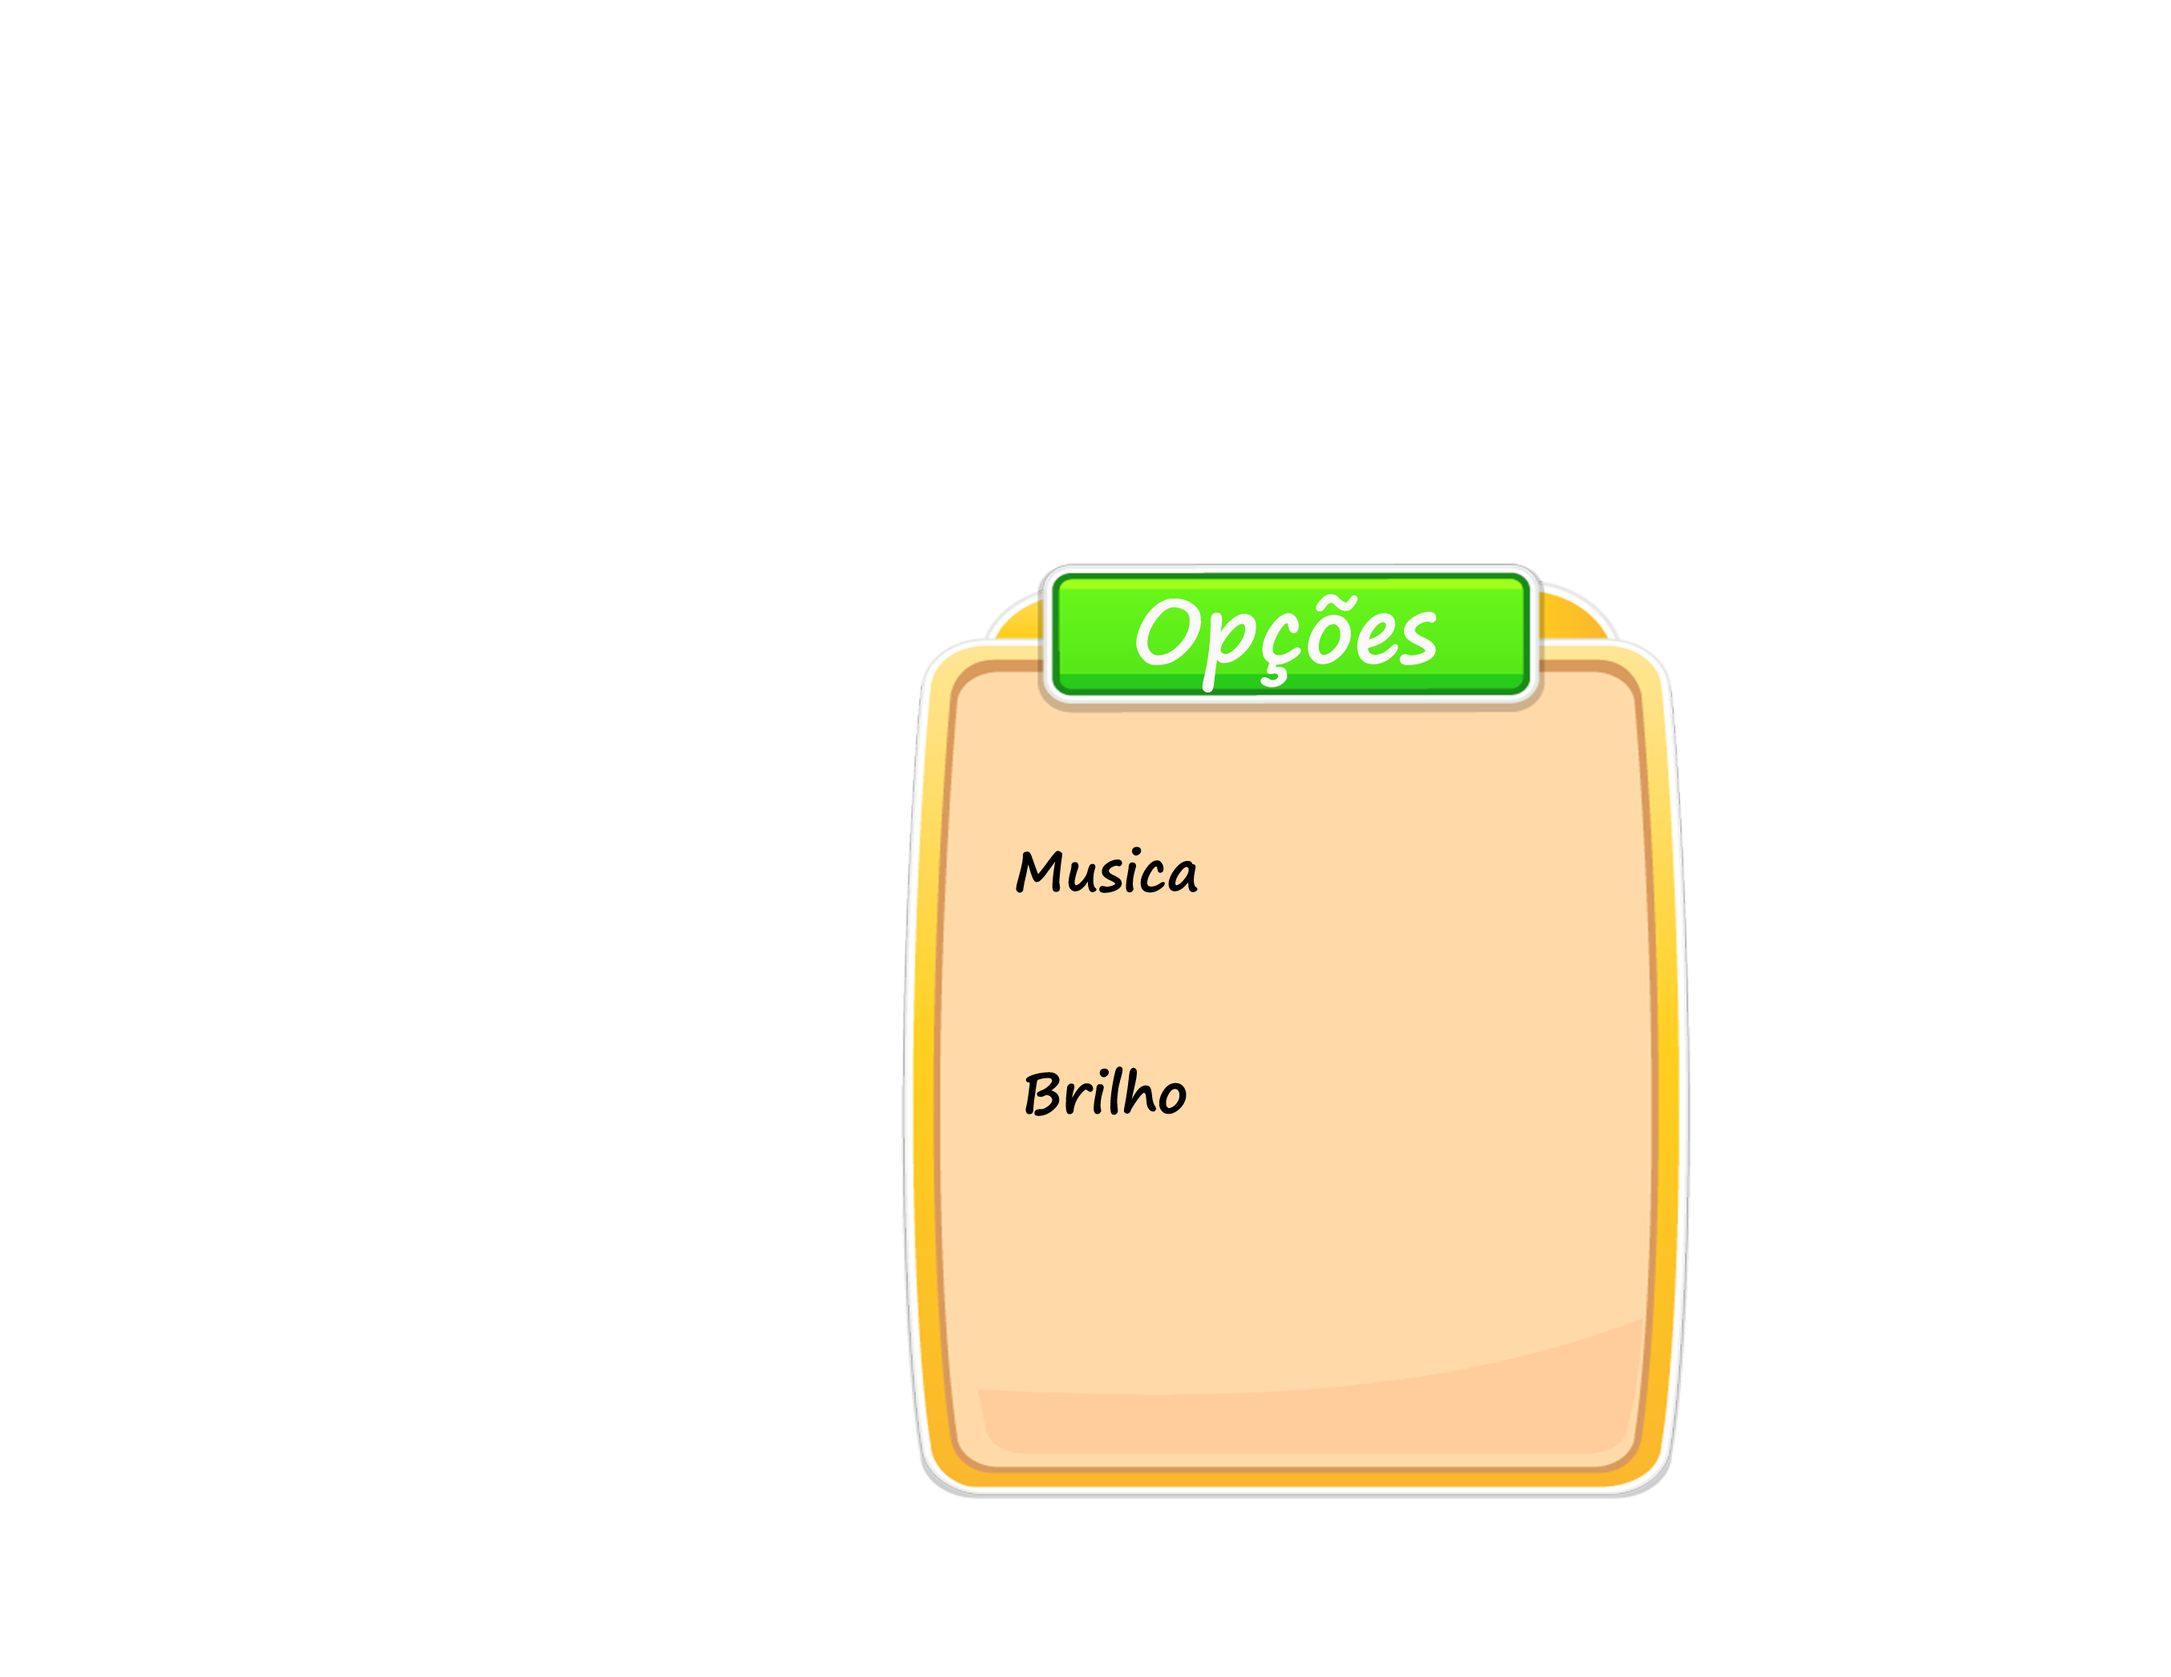
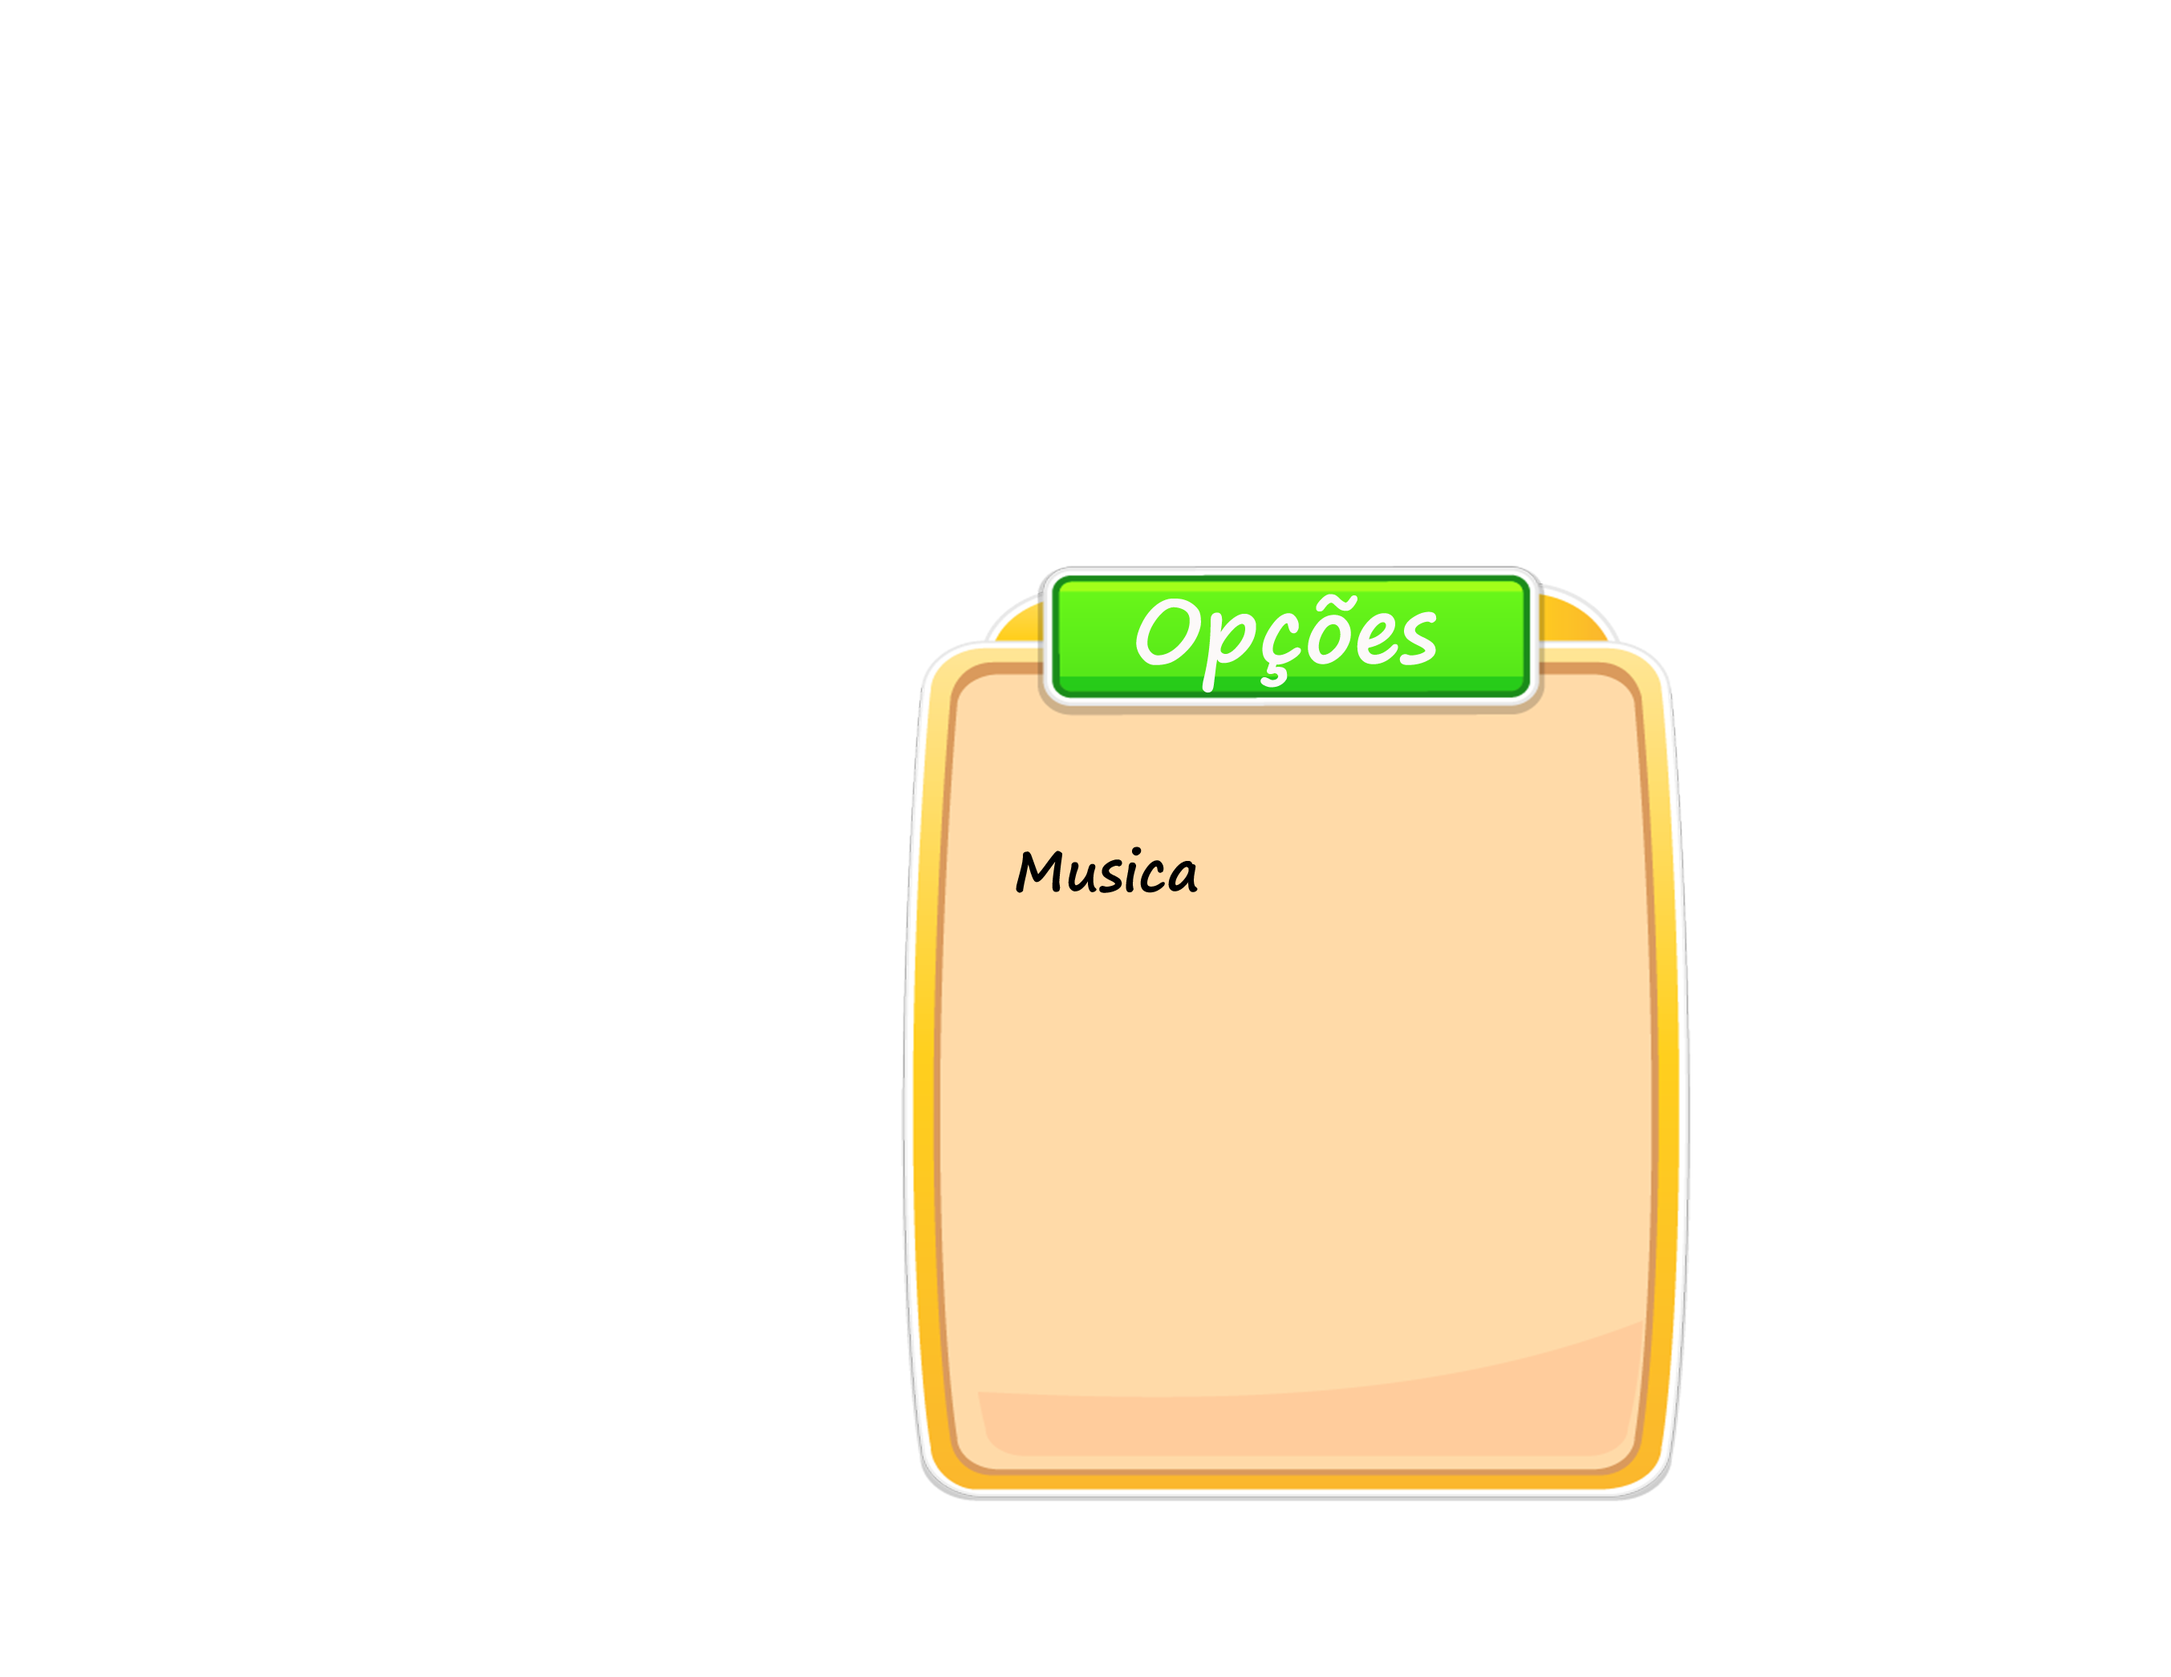
animação player

diff --git a/projeto/code/js/level1.js b/projeto/code/js/level1.js
@@ -37,6 +37,7 @@ var text16;
 //botoes globais
 let btn_play;
 
+
 class level1 extends Phaser.Scene{
     constructor(){
         super({
@@ -68,6 +69,7 @@ class level1 extends Phaser.Scene{
 
 
         //como as animacoes dos characters estao em png tenho de dar load de cada uma
+        //load run direita
         this.load.image('run0', 'Chicken Run Platformer Game Assets 17/Character Sprites/Run_000.png');
         this.load.image('run1', 'Chicken Run Platformer Game Assets 17/Character Sprites/Run_001.png');
         this.load.image('run2', 'Chicken Run Platformer Game Assets 17/Character Sprites/Run_002.png');
@@ -76,7 +78,7 @@ class level1 extends Phaser.Scene{
         this.load.image('run5', 'Chicken Run Platformer Game Assets 17/Character Sprites/Run_005.png');
         this.load.image('run6', 'Chicken Run Platformer Game Assets 17/Character Sprites/Run_006.png');
         this.load.image('run7', 'Chicken Run Platformer Game Assets 17/Character Sprites/Run_007.png');
-
+        //load run esquerda
         this.load.image('run10', 'Chicken Run Platformer Game Assets 17/Character Sprites/Run_010.png');
         this.load.image('run11', 'Chicken Run Platformer Game Assets 17/Character Sprites/Run_011.png');
         this.load.image('run12', 'Chicken Run Platformer Game Assets 17/Character Sprites/Run_012.png');
@@ -85,8 +87,39 @@ class level1 extends Phaser.Scene{
         this.load.image('run15', 'Chicken Run Platformer Game Assets 17/Character Sprites/Run_015.png');
         this.load.image('run16', 'Chicken Run Platformer Game Assets 17/Character Sprites/Run_016.png');
         this.load.image('run17', 'Chicken Run Platformer Game Assets 17/Character Sprites/Run_017.png');
-
-
+        //load idle direita
+        this.load.image('idle0', 'Chicken Run Platformer Game Assets 17/Character Sprites/Idle_000.png');
+        this.load.image('idle1', 'Chicken Run Platformer Game Assets 17/Character Sprites/Idle_001.png');
+        this.load.image('idle2', 'Chicken Run Platformer Game Assets 17/Character Sprites/Idle_002.png');
+        this.load.image('idle3', 'Chicken Run Platformer Game Assets 17/Character Sprites/Idle_003.png');
+        this.load.image('idle4', 'Chicken Run Platformer Game Assets 17/Character Sprites/Idle_004.png');
+        this.load.image('idle5', 'Chicken Run Platformer Game Assets 17/Character Sprites/Idle_005.png');
+        this.load.image('idle6', 'Chicken Run Platformer Game Assets 17/Character Sprites/Idle_006.png');
+        this.load.image('idle7', 'Chicken Run Platformer Game Assets 17/Character Sprites/Idle_007.png');
+        this.load.image('idle8', 'Chicken Run Platformer Game Assets 17/Character Sprites/Idle_008.png');
+        this.load.image('idle9', 'Chicken Run Platformer Game Assets 17/Character Sprites/Idle_009.png');
+        this.load.image('idle10', 'Chicken Run Platformer Game Assets 17/Character Sprites/Idle_010.png');
+        this.load.image('idle11', 'Chicken Run Platformer Game Assets 17/Character Sprites/Idle_011.png');
+        //load idle esquerda
+        this.load.image('idle20', 'Chicken Run Platformer Game Assets 17/Character Sprites/Idle_000.png');
+        this.load.image('idle21', 'Chicken Run Platformer Game Assets 17/Character Sprites/Idle_001.png');
+        this.load.image('idle22', 'Chicken Run Platformer Game Assets 17/Character Sprites/Idle_002.png');
+        this.load.image('idle23', 'Chicken Run Platformer Game Assets 17/Character Sprites/Idle_003.png');
+        this.load.image('idle24', 'Chicken Run Platformer Game Assets 17/Character Sprites/Idle_004.png');
+        this.load.image('idle25', 'Chicken Run Platformer Game Assets 17/Character Sprites/Idle_005.png');
+        this.load.image('idle26', 'Chicken Run Platformer Game Assets 17/Character Sprites/Idle_006.png');
+        this.load.image('idle27', 'Chicken Run Platformer Game Assets 17/Character Sprites/Idle_007.png');
+        this.load.image('idle28', 'Chicken Run Platformer Game Assets 17/Character Sprites/Idle_008.png');
+        this.load.image('idle29', 'Chicken Run Platformer Game Assets 17/Character Sprites/Idle_009.png');
+        this.load.image('idle30', 'Chicken Run Platformer Game Assets 17/Character Sprites/Idle_010.png');
+        this.load.image('idle31', 'Chicken Run Platformer Game Assets 17/Character Sprites/Idle_011.png');
+        //load jump direita
+        this.load.image('jump0', 'Chicken Run Platformer Game Assets 17/Character Sprites/Jump_000.png');
+        this.load.image('jump1', 'Chicken Run Platformer Game Assets 17/Character Sprites/Jump_001.png');
+        this.load.image('jump2', 'Chicken Run Platformer Game Assets 17/Character Sprites/Jump_002.png');
+        this.load.image('jump3', 'Chicken Run Platformer Game Assets 17/Character Sprites/Jump_003.png');
+        this.load.image('jump4', 'Chicken Run Platformer Game Assets 17/Character Sprites/Jump_004.png');
+        
 
         //para o loading demorar mais
         //retirar no futuro
@@ -144,7 +177,7 @@ class level1 extends Phaser.Scene{
         //efeitos
         //clicar btn
         let btnSound=this.sound.add("btn_music");
-        this.sound.mute=true;
+        //this.sound.mute=true;
 
         
 
@@ -159,7 +192,6 @@ class level1 extends Phaser.Scene{
         let tileset7 = map.addTilesetImage("owl");
         let tileset8 = map.addTilesetImage("horse");
         let tileset9 = map.addTilesetImage("horseBrown");
-
         let layer1 = map.createStaticLayer('Background', tileset1,0,0);
         let layer2 = map.createStaticLayer('Arvores', [tileset3,tileset4,tileset5,tileset6,tileset7,tileset8,tileset9],0,0);
         let layer3 = map.createStaticLayer('Ground', tileset2,0,0);
@@ -251,6 +283,56 @@ class level1 extends Phaser.Scene{
                 { key: 'run17'}
             ],
             frameRate: 24     
+        });
+
+        this.anims.create({
+            key: 'ridle',
+            frames:[
+                { key: 'idle0' },
+                { key: 'idle1' },
+                { key: 'idle2' },
+                { key: 'idle3' },
+                { key: 'idle4' },
+                { key: 'idle5' },
+                { key: 'idle6' },
+                { key: 'idle7' },
+                { key: 'idle8' },
+                { key: 'idle9' },
+                { key: 'idle10' },
+                { key: 'idle11' }   
+            ],
+            frameRate: 11     
+        });
+
+        this.anims.create({
+            key: 'lidle',
+            frames:[
+                { key: 'idle20' },
+                { key: 'idle21' },
+                { key: 'idle22' },
+                { key: 'idle23' },
+                { key: 'idle24' },
+                { key: 'idle25' },
+                { key: 'idle26' },
+                { key: 'idle27' },
+                { key: 'idle28' },
+                { key: 'idle29' },
+                { key: 'idle30' },
+                { key: 'idle31' }   
+            ],
+            frameRate: 11     
+        });
+
+        this.anims.create({
+            key: 'rjump',
+            frames:[
+                { key: 'jump0' },
+                { key: 'jump1' },
+                { key: 'jump2' },
+                { key: 'jump3' },
+                { key: 'jump4' }
+            ],
+            frameRate: 4     
         });
 
 
@@ -490,7 +572,19 @@ class level1 extends Phaser.Scene{
             fill: '#ffffff'
         });
         text16.setScrollFactor(1);
-        text16.setVisible(false);            
+        text16.setVisible(false);
+
+        
+
+        //brilho
+        //pequena função de loop
+        /*let  myVar=setInterval(litte, 10);
+        function litte(){
+            layer1.setAlpha(brilho);     
+            layer2.setAlpha(brilho);
+            layer3.setAlpha(brilho); 
+        }*/
+
     }
     
     createSpeechBubble (x, y, width, height, quote){
@@ -561,7 +655,9 @@ class level1 extends Phaser.Scene{
         }
         if ((cursors.space.isDown || cursors.up.isDown) && player.body.onFloor())
         {
+
             player.body.setVelocityY(-300); // jump up
+            player.anims.play('rjump', true);
         }
         if (cursors.left.isDown)
         {
@@ -573,7 +669,9 @@ class level1 extends Phaser.Scene{
             player.body.setVelocityX(200); // move right
             player.anims.play('right', true); // play walk animatio
         } else {
+
             player.body.setVelocityX(0);
+            player.anims.play('lidle', true)
             //player.anims.play('idle', true);
         }
 

diff --git a/projeto/code/js/menu_pause.js b/projeto/code/js/menu_pause.js
@@ -2,12 +2,6 @@
 
 var volumeBar;
 var volumeBox;
-var brilhoBar;
-var brilhoBox;
-
-var obj={
-            brilho:1
-        };
 
 class menu_pause extends Phaser.Scene{
     constructor(){
@@ -41,11 +35,7 @@ class menu_pause extends Phaser.Scene{
         let btn_vMinus=this.add.image(cw/2 + 15,ch/2 - 35,"btn_minus").setScale(0.2).setInteractive({cursor:"pointer"});
         //botao plus volume
         let btn_vPlus=this.add.image(cw/2 + 140,ch/2 - 35,"btn_plus").setScale(0.2).setInteractive({cursor:"pointer"});
-        //botao minus brilho
-        let btn_bMinus=this.add.image(cw/2 + 15,ch/2 + 50,"btn_minus").setScale(0.2).setInteractive({cursor:"pointer"});
-        //botao plus brilho
-        let btn_bPlus=this.add.image(cw/2 + 140,ch/2 + 50,"btn_plus").setScale(0.2).setInteractive({cursor:"pointer"});
-
+    
         //btn_pause
         btn_pause.on("pointerover",function(event){
             this.setScale(0.35);
@@ -58,13 +48,8 @@ class menu_pause extends Phaser.Scene{
             bck_pause.setVisible(false);
             btn_vMinus.setVisible(false);
             btn_vPlus.setVisible(false);
-            btn_bMinus.setVisible(false);
-            btn_bPlus.setVisible(false);
             volumeBox.setVisible(false);
             volumeBar.setVisible(false);
-            brilhoBox.setVisible(false);
-            brilhoBar.setVisible(false);
-
 
         },this);
         btn_pause.on("pointerout",function(event){
@@ -99,35 +84,7 @@ class menu_pause extends Phaser.Scene{
         btn_vPlus.on("pointerout",function(event){
             this.setScale(0.2);
         });
-        //btn_bMinus
-        btn_bMinus.on("pointerover",function(event){
-            this.setScale(0.22);
-        });
-        btn_bMinus.on("pointerdown",function(event){
-            //btnSound.play();
-            console.log("brilho:"+obj.brilho);
-            if(obj.brilho>0){
-                obj.brilho=obj.brilho - 0.1;
-            }
-        },this);
-        btn_bMinus.on("pointerout",function(event){
-            this.setScale(0.2);
-        });
-        //btn_bPlus
-        btn_bPlus.on("pointerover",function(event){
-            this.setScale(0.22);
-        });
-        btn_bPlus.on("pointerdown",function(event){
-            //btnSound.play();
-            console.log("brilho:"+obj.brilho);
-            if(obj.brilho<1){
-                obj.brilho = obj.brilho + 0.1;
-            }  
-        },this);
-        btn_bPlus.on("pointerout",function(event){
-            this.setScale(0.2);
-        });
-
+    
 
         //gui
         //volume box
@@ -136,12 +93,6 @@ class menu_pause extends Phaser.Scene{
         volumeBox.fillRect(cw/2 + 35,ch/2 - 50, 85, 35);
         //volume bar
         volumeBar=this.add.graphics();
-        //brilho box
-        brilhoBox=this.add.graphics();
-        brilhoBox.fillStyle(0x222222,1);
-        brilhoBox.fillRect(cw/2 + 35,ch/2 + 35 , 85, 35);
-        //brilho bar
-        brilhoBar=this.add.graphics();
 
     }
 
@@ -156,11 +107,6 @@ class menu_pause extends Phaser.Scene{
         //volumeBar.fillStyle(0xe6e6e6,0.5);
         volumeBar.fillStyle(0xe6e6e6,1);
         volumeBar.fillRect(cw/2 + 37 ,ch/2 -48 ,this.sound.volume*81,32);
-
-        //brilhoBar update
-        //volumeBar.fillStyle(0xe6e6e6,0.5);
-        brilhoBar.fillStyle(0xe6e6e6,1);
-        brilhoBar.fillRect(cw/2 + 37,ch/2 + 36 ,obj.brilho*81,32);
         
     }
 
